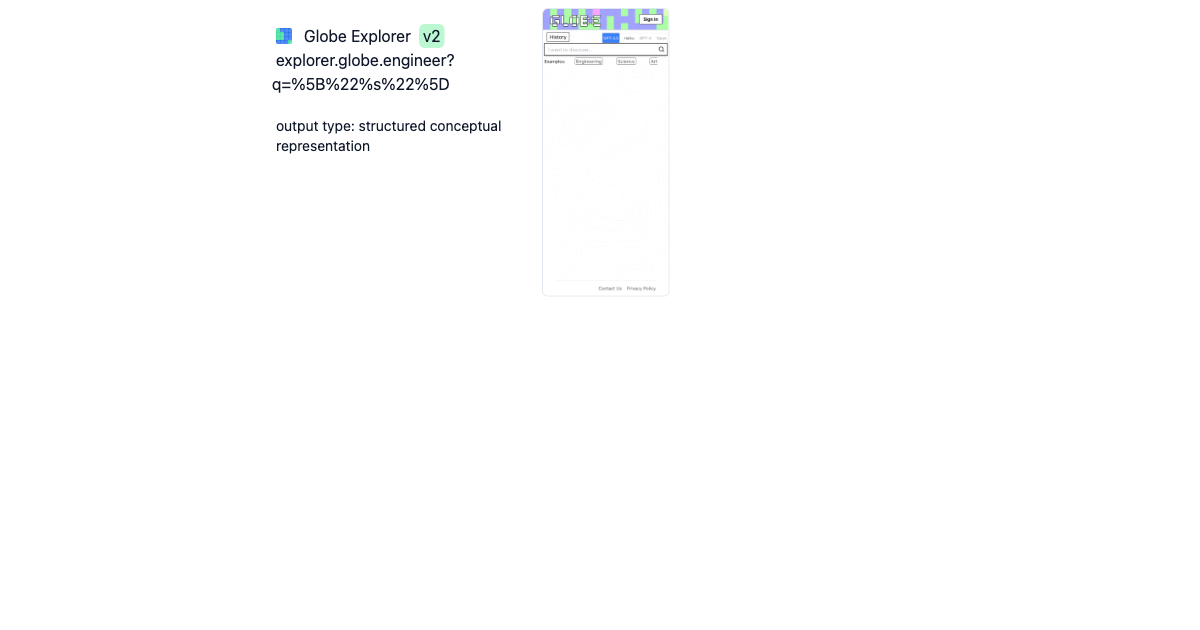
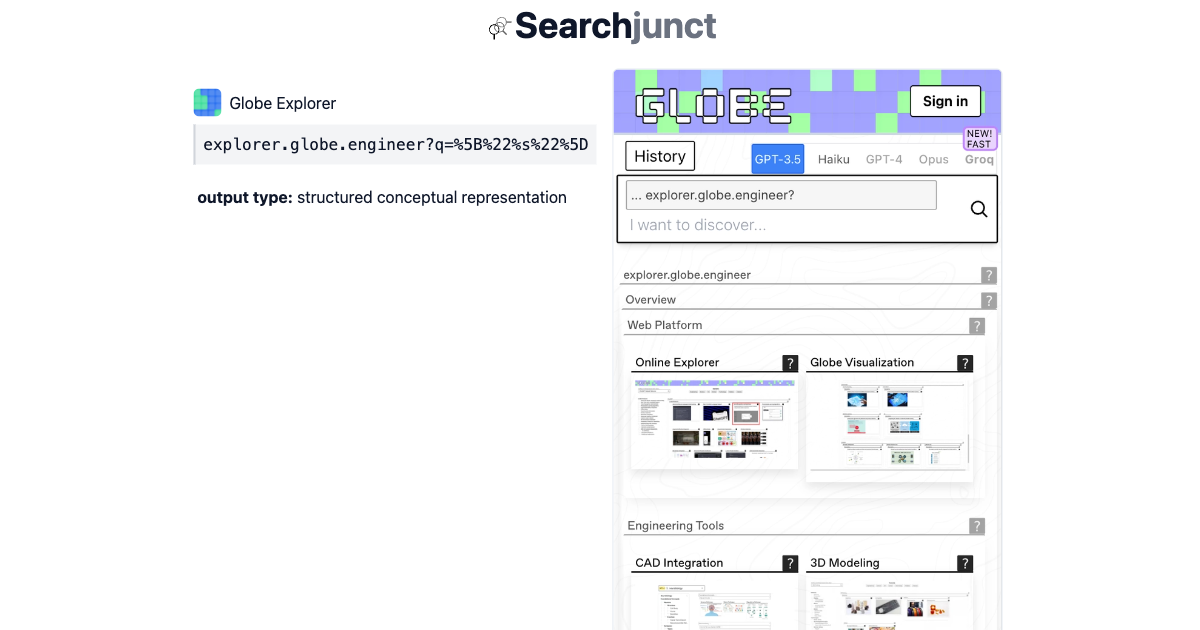
add excerpt; refine sharecard screenshots

diff --git a/pages/share/[id].tsx b/pages/share/[id].tsx
@@ -2,9 +2,8 @@
 
 // share/[id].tsx
 import React, { useEffect, useState } from 'react';
-import Script from 'next/script';
 import { GetStaticProps, GetStaticPaths } from 'next';
-import { LandingPageScreenshots } from '../../src/components/systems/Images';
+import { PageScreenshots } from '../../src/components/systems/Images';
 import { System } from '../../src/types/system';
 import { baseSystems } from '../../src/contexts/SystemsContext';
 import { OpenSourceLicense } from '../../src/components/systems/Elements';
@@ -23,6 +22,7 @@ export const getStaticProps: GetStaticProps = async (context) => {
     return {
         props: {
             system,
+            sharePage: true
         },
     };
 };
@@ -42,16 +42,6 @@ const SystemPage = ({ system }: { system: System }) => {
     const [isClient, setIsClient] = useState(false);
 
     useEffect(() => {
-        if (typeof window !== 'undefined' && !window.location.href.includes('localhost')) {
-            const script = document.createElement('script');
-            script.defer = true;
-            script.src = "https://plausible.io/js/script.js";
-            script.setAttribute('data-domain', 'searchjunct.com');
-            document.body.appendChild(script);
-        }
-    }, []);
-
-    useEffect(() => {
         setIsClient(typeof window !== 'undefined');
     }, []);
 
@@ -61,25 +51,22 @@ const SystemPage = ({ system }: { system: System }) => {
 
     return (
         <>
-            {typeof window !== 'undefined' && !window.location.href.includes('localhost') ? (
-                <Script defer data-domain="searchjunct.com" src="https://plausible.io/js/script.js" />
-            ) : null}
-            <div className="mx-1 w-9/10 sm:w-3/4 sm:mx-auto md:w-3/7 lg:w-3/5 xl:w-2/4">
-                <div className="flex flex-row mx-7">
-                    <div className={`w-full bg-white flex flex-row rounded-md mr-1 p-1`}>
-                        <div className="mt-5 min-w-[250px] mr-4">
+            <div className="mx-1 mt-5">
+                <div className="flex flex-row">
+                    <div className={`w-full justify-center bg-white flex flex-row rounded-md mr-1 p-1`}>
+                        <div className="mt-5 min-w-[350px] mr-4">
                             <SystemTitle system={system} favicon_included={true} />
-                            <span className="ml-1">{system.searchLink.replace('https://', '').replace('/', '')}</span>
+                            <pre className="my-2 border-l-2 border-gray-300 bg-gray-100 p-2">{system.searchLink.replace('https://', '').replace('/', '')}</pre>
                             <div className="mt-5">
                                 <OpenSourceLicense system={system} />
                             {system.characteristics && system.characteristics.output && (
                                 <div>
-                                    <p className="w-[250px] text-sm ml-1">output type: {system.characteristics.output}</p>
+                                    <p className="ml-1"><span className="font-bold">output type:</span> {system.characteristics.output}</p>
                                 </div>
                             )}
                             </div>
                         </div>
-                        <LandingPageScreenshots system={system} shareCard={true} />
+                        <PageScreenshots system={system} shareCard={true}/>
                     </div>
                     
                 </div>

diff --git a/src/components/systems/Images.tsx b/src/components/systems/Images.tsx
@@ -20,18 +20,23 @@ export const SpecialFeatureImage: React.FC<{ image: string, title: string }> = (
     );
 };
 
-export const LandingPageScreenshots: React.FC<{ system: System, shareCard?: boolean }> = ({ system, shareCard }) => {
-  const screenshots = system.landingPageScreenshots;
+export const PageScreenshots: React.FC<{ system: System, shareCard?: boolean }> = ({ system, shareCard }) => {
+  const combinedScreenshots = [
+    ...(system.exampleSerpScreenshots?.map(ss => `example_serps/${ss}`) || []),
+    ...(system.landingPageScreenshots?.map(ss => `landing_pages/${ss}`) || [])
+  ];
+  
 
-  if (!screenshots || screenshots.length === 0) {
+
+  if (!combinedScreenshots || combinedScreenshots.length === 0) {
     return null; // No images to display
   }
 
   if (shareCard) {
-    const imageSrc = screenshots[0];
+    const imageSrc = combinedScreenshots[0];
     return (
       <Image
-        src={`/screenshots/landing_pages/${imageSrc}`}
+        src={`/screenshots/${imageSrc}`}
         alt={`Share card screenshot`}
         width={390}
         height={844}
@@ -43,16 +48,16 @@ export const LandingPageScreenshots: React.FC<{ system: System, shareCard?: bool
 
   return (
     <div className={`my-1 ${shareCard ? 'flex flex-col sm:flex-row gap-1 justify-center w-full' : ''}`}>
-      {screenshots.map((screenshot, index) => {
+      {combinedScreenshots.map((screenshot, index) => {
         const isWide = index === 1; // Assume second image might be wider
 
         return (
           <div
             key={index}
-            className={`${isWide ? 'sm:w-2/3' : 'sm:w-1/3'}`} // Adjust width for second image
+            className={`mx-auto ${isWide ? 'sm:w-2/3' : 'sm:w-1/3'}`} // Adjust width for second image
           >
             <Image
-              src={`/screenshots/landing_pages/${screenshot}`}
+              src={`/screenshots/${screenshot}`}
               alt={`Screenshot ${index + 1}`}
               width={isWide ? 800 : 400}
               height={422}

diff --git a/src/components/header/Header.tsx b/src/components/header/Header.tsx
@@ -28,17 +28,17 @@ const HeaderTitle: React.FC<{ pageTitleParts: string[] }> = ({ pageTitleParts })
   )
 }
 
-const Header: React.FC<{ pageTitleParts?: string[], system?: System }> = ({ pageTitleParts, system }) => {
+const Header: React.FC<{ pageTitleParts?: string[], system?: System, sharePage?: boolean }> = ({ pageTitleParts, system, sharePage }) => {
   const {baseSystems} = useSystemsContext();
   return (
     <header className="grid grid-cols-12 pt-1 mb-1">
       {/* <MainMenuToggle className="col-span-1" /> */}
-      <DropDownMenu className="col-span-1" />
-      <a href="/" className={`col-span-10 text-4xl text-center ${pageTitleParts ? '' : 'mb-0'} block`}>
+      {!sharePage && <DropDownMenu className="col-span-1" />}
+      <a href="/" className={`${sharePage ? 'col-span-12' : 'col-span-10'} text-4xl text-center ${pageTitleParts ? '' : 'mb-0'} block`}>
         <Image className="inline" src="/searchjunct.svg" alt="Searchjunct Logo" width={32} height={32} />
         <SearchjunctTitle /></a>
       {pageTitleParts && <HeaderTitle pageTitleParts={pageTitleParts} />}
-      {system && 
+      {system && !sharePage && 
         <div className="col-span-12 text-center my-2">
           <p><SystemComboBox systems={baseSystems} system={system} /></p>
         </div>

diff --git a/src/components/systems/Card.tsx b/src/components/systems/Card.tsx
@@ -23,7 +23,7 @@ import { System } from "../../types/system";
 import { DeleteSystemButton, DisableSystemButton } from './Buttons';
 import { MicroPostsLinks, Discussions, ThesesLinks } from './Documents';
 import { useSystemsContext } from '../../contexts/SystemsContext';
-import { LandingPageScreenshots, SpecialFeatureImage } from './Images';
+import { PageScreenshots, SpecialFeatureImage } from './Images';
 
 import { PermalinkAlertDialog, SearchLinkAlertDialog, SearchLinkPatternAlert, NoticeAlert } from './Alerts';
 
@@ -183,7 +183,7 @@ const SystemCard: React.FC<SystemCardProps> = ({ system, systemPage }) => {
             </AlertDescription>
           </Alert>
         )}
-        <LandingPageScreenshots system={system} />
+        <PageScreenshots system={system} />
       {!settingsCardActive && (
         <div className="flex flex-col space-x-1 text-xs sm:space-y-0 sm:space-x-2 w-2/5 my-2 items-end justify-end ml-auto">
           <DisableSystemButton system={system} />

diff --git a/pages/_app.tsx b/pages/_app.tsx
@@ -35,9 +35,9 @@ function MyApp({ Component, pageProps }: AppProps) {
                                             <SearchProvider>
                                                 <Header {...pageProps} />
                                                 <Component {...pageProps} />
-                                                <Footer />
-                                                <FeedbackAction />
-                                                <ViewMultisearchSheet />
+                                                {!pageProps.sharePage && <Footer />}
+                                                {!pageProps.sharePage && <FeedbackAction />}
+                                                {!pageProps.sharePage && <ViewMultisearchSheet />}
                                             </SearchProvider>
                                         </QueryProvider>
                                             </ShortcutProvider>

diff --git a/src/types/system.tsx b/src/types/system.tsx
@@ -84,6 +84,7 @@ export interface System {
         }
     ]
     landingPageScreenshots?: string[];
+    exampleSerpScreenshots?: string[];
     iosApp?: string;
     androidApp?: string;
     addFaviconBackground?: string;

diff --git a/src/components/LastUpdated.tsx b/src/components/LastUpdated.tsx
@@ -1,5 +1,5 @@
 import React from "react";
-const lastUpdated = "2024-05-03T05:46:13.941Z";
+const lastUpdated = "2024-05-03T06:11:17.394Z";
 
 const LastUpdated: React.FC = () => {
   return (
